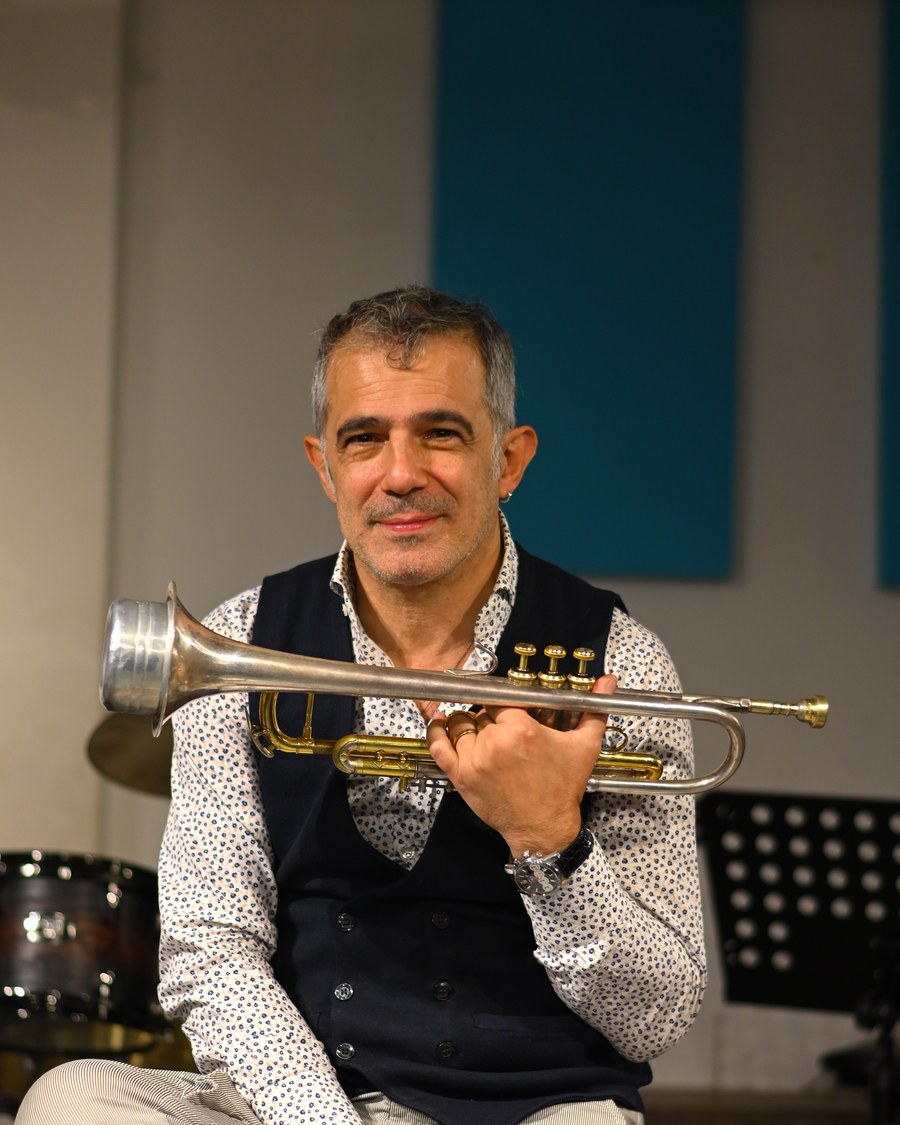
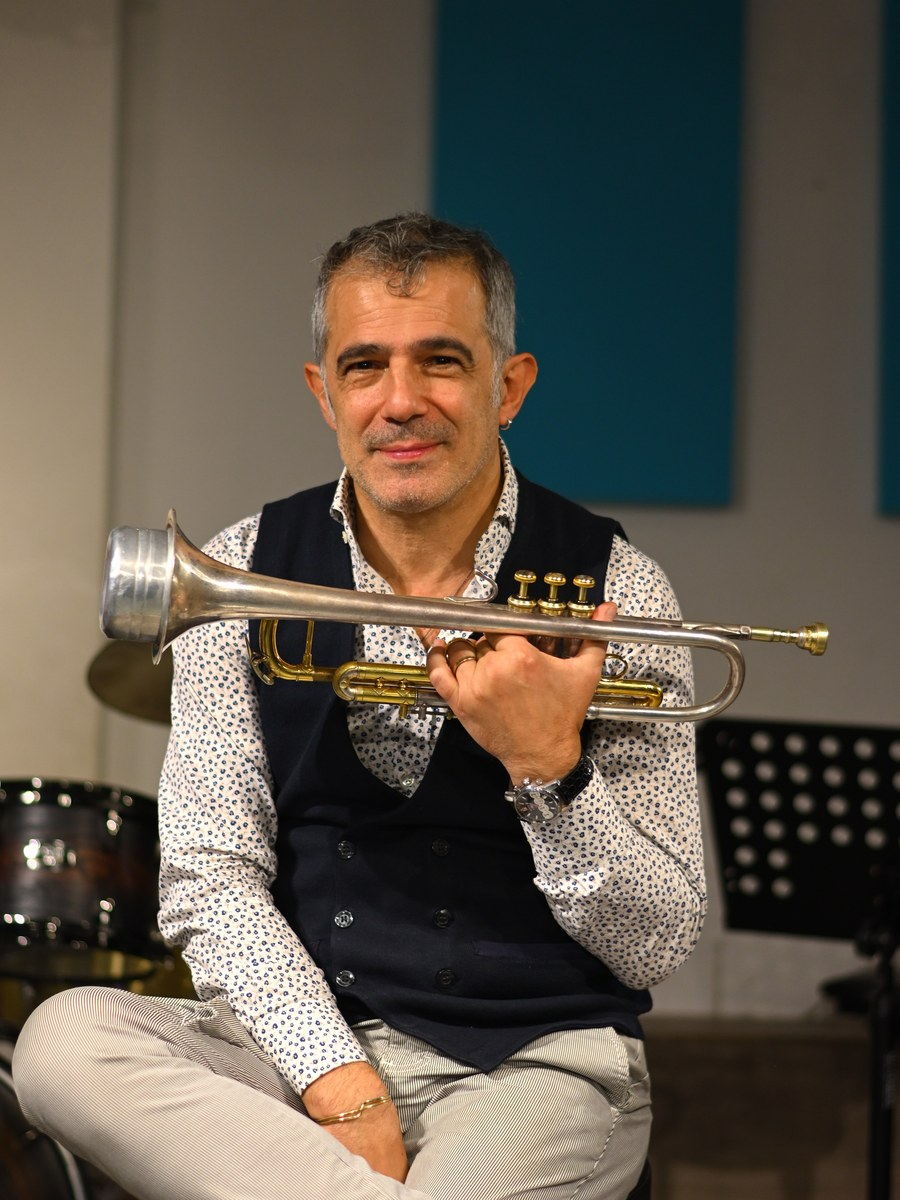
Corregge foto e tipo dell'evento di Massimo Varini, riequilibra la vetrina
- La foto di Varini era ruotata in modo errato (chitarra "capovolta"):
  corretta l'orientazione e ritagliata sulla sua figura, con un piccolo
  bordo sfumato per non farla apparire troppo grande rispetto alle altre.
- L'evento era classificato come "workshop", ma è una masterclass: tipo,
  nome, testo e percorso dei file aggiornati di conseguenza.
- Corretto anche l'inquadratura di Fresu (figura leggermente più alta,
  meno spazio vuoto sopra la testa) e di Brancale (leggermente più
  spazio sopra la testa), per rendere le tre foto della vetrina più
  omogenee tra loro.

Claude-Session: https://claude.ai/code/session_01G295Z6zKX8abFEDAhoiRzS

diff --git a/src/content/eventi/masterclass-massimo-varini-2024.md b/src/content/eventi/masterclass-massimo-varini-2024.md
@@ -1,0 +1,10 @@
+---
+nome: "Masterclass con Massimo Varini"
+tipo: "masterclass"
+data: "2024-10-12"
+teaser: "Percussioni, tapping e altre tecniche per chitarra acustica: una masterclass con il chitarrista Massimo Varini nel nostro Piccolo Auditorium."
+ospiti: ["Massimo Varini"]
+immagine: "/assets/eventi/masterclass/massimo-varini-2024.jpg"
+vetrina: true
+video: "https://www.youtube.com/watch?v=jyHCItc30V8"
+---
